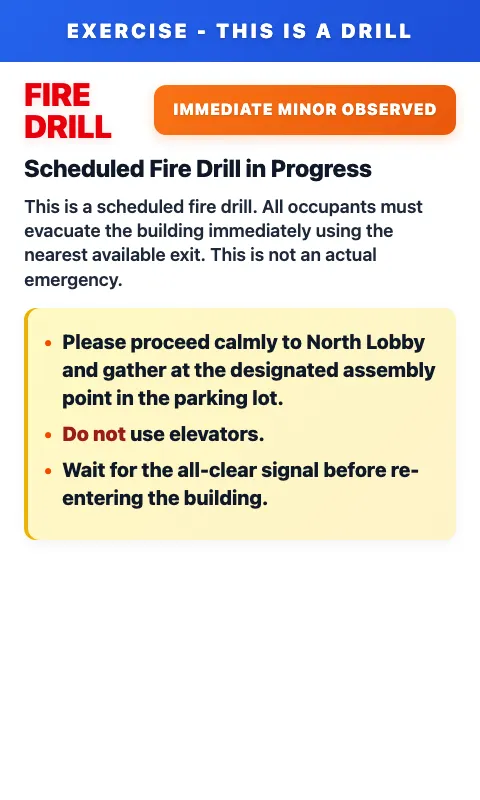
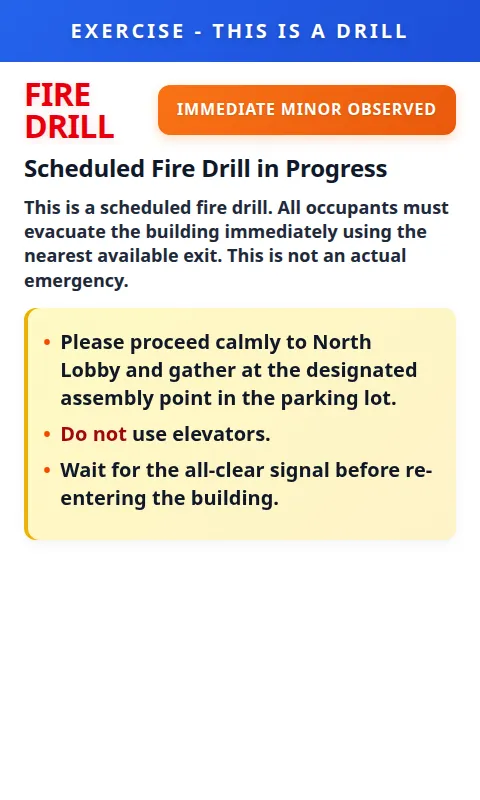
feat: adopt Tailwind CSS utility classes for styling
Rework index.html to use Tailwind utility classes instead of custom CSS
classes, keeping visual appearance and behavior unchanged. Slim the CSS
entry point down to just the design-system import. Bump
@screenly/edge-apps to ^1.3.0 for upcoming Tailwind CSS support.
Regenerate screenshots to reflect the change.

Changed region(s): [[0.125, 0.4062, 0.9062, 0.6562], [0.0312, 0.0938, 0.9375, 0.375], [0.125, 0.0312, 0.875, 0.0625]]

diff --git a/index.html b/index.html
@@ -13,17 +13,17 @@
     <!-- Alert Card Template -->
     <template id="alert-card-template">
       <div
-        class="alert-card w-full h-full bg-white flex flex-col overflow-y-auto"
+        class="w-full h-full bg-white flex flex-col overflow-y-auto shadow-[0_8px_32px_rgba(0,0,0,0.12),0_2px_8px_rgba(0,0,0,0.08)]"
       >
         <div id="status-banner-container"></div>
         <div id="header-row-container"></div>
         <h3
           id="headline"
-          class="font-extrabold leading-tight flex-shrink-0 headline-text text-gray-900 mx-[5vw] mb-[1.5vh]"
+          class="font-extrabold leading-[1.2] tracking-[-0.01em] flex-shrink-0 text-[clamp(1.5rem,3.5vmin,7rem)] text-gray-900 mx-[5vw] mb-[1.5vh]"
         ></h3>
         <p
           id="description"
-          class="font-semibold leading-snug body-text text-gray-800 mx-[5vw] mb-[2vh]"
+          class="font-semibold leading-[1.35] text-[clamp(1.125rem,2.5vmin,5rem)] text-gray-800 mx-[5vw] mb-[2vh]"
         ></p>
         <div id="instruction-container"></div>
         <div id="resources-container"></div>
@@ -33,7 +33,7 @@
     <!-- Status Banner Template -->
     <template id="status-banner-template">
       <div
-        class="w-full text-center font-black uppercase tracking-[0.15em] flex-shrink-0 status-stripe-pattern status-banner-text py-[2.5vh] px-[4vw] text-white"
+        class="w-full text-center font-black uppercase tracking-[0.15em] flex-shrink-0 status-stripe-pattern py-[2.5vh] px-[4vw] text-white text-[clamp(1.25rem,3.5vmin,6rem)] leading-[1.1] [text-shadow:0_2px_4px_rgba(0,0,0,0.2)]"
       ></div>
     </template>
 
@@ -43,10 +43,10 @@
         class="flex items-center justify-between gap-[2vw] mx-[5vw] mt-[2vh] mb-[1.5vh]"
       >
         <h2
-          class="text-red-600 font-black uppercase leading-none event-title-text"
+          class="text-red-600 font-black uppercase leading-none text-[clamp(2rem,5vmin,10rem)] tracking-[-0.02em] [text-shadow:0_2px_8px_rgba(220,38,38,0.15)] min-[1920px]:[@media(min-height:1080px)]:text-[clamp(3rem,6vmin,12rem)] min-[3840px]:[@media(min-height:2160px)]:text-[clamp(4rem,6vmin,12rem)]"
         ></h2>
         <div
-          class="severity-badge inline-block text-white rounded-xl font-black uppercase tracking-wider flex-shrink-0 severity-badge-text px-[4vw] py-[2vh]"
+          class="severity-badge inline-block text-white rounded-xl font-black uppercase tracking-wider flex-shrink-0 px-[4vw] py-[2vh] text-[clamp(1rem,2vmin,4rem)] leading-[1.1] [text-shadow:0_1px_2px_rgba(0,0,0,0.15)] shadow-[0_4px_12px_rgba(249,115,22,0.25)] bg-[linear-gradient(135deg,rgb(249,115,22)_0%,rgb(234,88,12)_100%)]"
         ></div>
       </div>
     </template>
@@ -54,13 +54,15 @@
     <!-- Instruction Box Template -->
     <template id="instruction-box-template">
       <div
-        class="instruction-box rounded-xl flex-shrink-0 px-[4vw] py-[2.5vh] mx-[5vw] mb-[2vh]"
+        class="rounded-xl flex-shrink-0 px-[4vw] py-[2.5vh] mx-[5vw] mb-[2vh] shadow-[inset_4px_0_0_0_rgb(234,179,8),0_4px_12px_rgba(0,0,0,0.05)] backdrop-blur-[10px] bg-[linear-gradient(135deg,rgb(254,249,195)_0%,rgb(254,243,199)_100%)]"
       ></div>
     </template>
 
     <!-- Instruction List Template -->
     <template id="instruction-list-template">
-      <ul class="instruction-text leading-snug text-gray-900"></ul>
+      <ul
+        class="leading-[1.4] text-[clamp(1.25rem,3vmin,6rem)] min-[1920px]:[@media(min-height:1080px)]:text-[clamp(2rem,3.5vmin,7rem)] min-[3840px]:[@media(min-height:2160px)]:text-[clamp(2.5rem,3.5vmin,7rem)] text-gray-900"
+      ></ul>
     </template>
 
     <!-- Instruction List Item Template -->
@@ -74,7 +76,7 @@
     <!-- Instruction Paragraph Template -->
     <template id="instruction-paragraph-template">
       <p
-        class="instruction-text font-extrabold leading-snug whitespace-pre-line text-gray-900"
+        class="font-extrabold leading-[1.4] whitespace-pre-line text-[clamp(1.25rem,3vmin,6rem)] min-[1920px]:[@media(min-height:1080px)]:text-[clamp(2rem,3.5vmin,7rem)] min-[3840px]:[@media(min-height:2160px)]:text-[clamp(2.5rem,3.5vmin,7rem)] text-gray-900"
       ></p>
     </template>
 
@@ -91,17 +93,19 @@
     <!-- NWS Forecast Content Template (with preamble) -->
     <template id="nws-forecast-template">
       <div
-        class="nws-content font-semibold leading-snug body-text text-gray-800 mx-[5vw] mb-[2vh]"
+        class="nws-content font-semibold leading-[1.35] text-[clamp(1.125rem,2.5vmin,5rem)] text-gray-800 mx-[5vw] mb-[2vh]"
       >
-        <p class="nws-preamble"></p>
-        <ul class="nws-forecast-list"></ul>
+        <p class="nws-preamble mb-[1.5vh] leading-[1.4]"></p>
+        <ul class="nws-forecast-list list-none p-0 m-0"></ul>
       </div>
     </template>
 
     <!-- NWS Forecast List Item Template -->
     <template id="nws-forecast-item-template">
-      <li>
-        <strong class="period-label"></strong>
+      <li
+        class="relative pl-[3vw] mb-[1vh] before:content-['•'] before:absolute before:left-0 before:text-[rgb(234,88,12)] before:font-black"
+      >
+        <strong class="period-label text-[rgb(30,64,175)] font-extrabold"></strong>
         <span class="period-content"></span>
       </li>
     </template>
@@ -109,14 +113,16 @@
     <!-- NWS WWWI Content Template -->
     <template id="nws-wwwi-template">
       <ul
-        class="nws-wwwi-list font-semibold leading-snug body-text text-gray-800 mx-[5vw] mb-[2vh]"
+        class="nws-wwwi-list font-semibold leading-[1.35] text-[clamp(1.125rem,2.5vmin,5rem)] text-gray-800 mx-[5vw] mb-[2vh] list-none p-0 m-0"
       ></ul>
     </template>
 
     <!-- NWS WWWI List Item Template -->
     <template id="nws-wwwi-item-template">
-      <li>
-        <strong class="wwwi-label"></strong>
+      <li
+        class="relative pl-[3vw] mb-[1vh] before:content-['•'] before:absolute before:left-0 before:text-[rgb(234,88,12)] before:font-black"
+      >
+        <strong class="wwwi-label text-[rgb(30,64,175)] font-extrabold"></strong>
         <span class="wwwi-content"></span>
       </li>
     </template>

diff --git a/src/input.css b/src/input.css
@@ -1,9 +1,16 @@
+/* This app doesn't use the shared @screenly/edge-apps app-shell (no
+   auto-scaler/app-header custom elements), so there's no design-system
+   preset to import here. Tailwind's Preflight reset stays enabled (the
+   default `tailwindcss` import) since plain elements in this app (ul, li,
+   h2, h3, p) rely on it for their zeroed margins/padding/list-style. */
 @import 'tailwindcss';
-@import './nws.css';
 
-/* Modern Digital Signage Design - Viewport-based sizing */
+/* Status banner color variants and the "Actual" pulse animation are chosen
+   dynamically at runtime via `bannerEl.classList.add(...baseClasses)` in
+   src/main.ts, so they can't be expressed as static Tailwind utility
+   classes in index.html — kept here as plain CSS keyed by the class names
+   main.ts adds. */
 
-/* Custom animations */
 @keyframes pulse-banner {
   0%,
   100% {
@@ -36,81 +43,6 @@
   );
 }
 
-/* Viewport-based typography optimized for digital signage readability */
-/* Balanced for visibility and fitting content in viewport */
-
-.status-banner-text {
-  font-size: clamp(1.25rem, 3.5vmin, 6rem);
-  line-height: 1.1;
-  text-shadow: 0 2px 4px rgba(0, 0, 0, 0.2);
-}
-
-.event-title-text {
-  font-size: clamp(2rem, 5vmin, 10rem);
-  line-height: 1;
-  text-shadow: 0 2px 8px rgba(220, 38, 38, 0.15);
-  letter-spacing: -0.02em;
-}
-
-.severity-badge-text {
-  font-size: clamp(1rem, 2vmin, 4rem);
-  line-height: 1.1;
-  text-shadow: 0 1px 2px rgba(0, 0, 0, 0.15);
-}
-
-.headline-text {
-  font-size: clamp(1.5rem, 3.5vmin, 7rem);
-  line-height: 1.2;
-  letter-spacing: -0.01em;
-}
-
-.body-text {
-  font-size: clamp(1.125rem, 2.5vmin, 5rem);
-  line-height: 1.35;
-}
-
-.instruction-text {
-  font-size: clamp(1.25rem, 3vmin, 6rem);
-  line-height: 1.4;
-}
-
-/* Enhanced keyword highlighting for quick scanning */
-.instruction-text strong {
-  font-weight: 900;
-  color: rgb(153, 27, 27);
-}
-
-/* Modern card styling */
-.alert-card {
-  box-shadow:
-    0 8px 32px rgba(0, 0, 0, 0.12),
-    0 2px 8px rgba(0, 0, 0, 0.08);
-}
-
-/* Modern instruction box */
-.instruction-box {
-  box-shadow:
-    inset 4px 0 0 0 rgb(234, 179, 8),
-    0 4px 12px rgba(0, 0, 0, 0.05);
-  backdrop-filter: blur(10px);
-  background: linear-gradient(
-    135deg,
-    rgb(254, 249, 195) 0%,
-    rgb(254, 243, 199) 100%
-  );
-}
-
-/* Severity badge modern styling */
-.severity-badge {
-  box-shadow: 0 4px 12px rgba(249, 115, 22, 0.25);
-  background: linear-gradient(
-    135deg,
-    rgb(249, 115, 22) 0%,
-    rgb(234, 88, 12) 100%
-  );
-}
-
-/* Status banner gradients */
 .status-banner-blue {
   background: linear-gradient(
     135deg,
@@ -137,25 +69,4 @@
 
 .status-banner-gray {
   background: linear-gradient(135deg, rgb(75, 85, 99) 0%, rgb(55, 65, 81) 100%);
-}
-
-/* Responsive adjustments for common signage resolutions */
-@media (min-width: 1920px) and (min-height: 1080px) {
-  .instruction-text {
-    font-size: clamp(2rem, 3.5vmin, 7rem);
-  }
-
-  .event-title-text {
-    font-size: clamp(3rem, 6vmin, 12rem);
-  }
-}
-
-@media (min-width: 3840px) and (min-height: 2160px) {
-  .instruction-text {
-    font-size: clamp(2.5rem, 3.5vmin, 7rem);
-  }
-
-  .event-title-text {
-    font-size: clamp(4rem, 6vmin, 12rem);
-  }
 }
